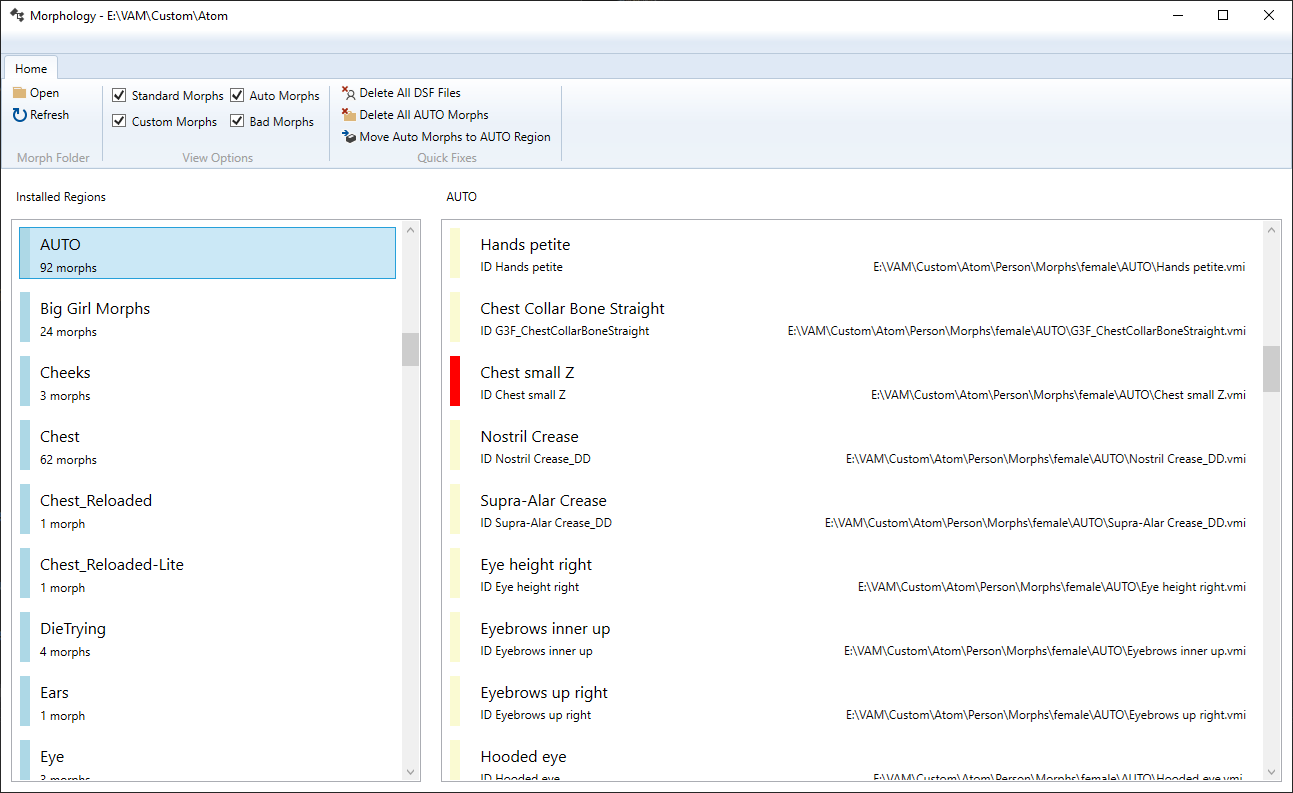
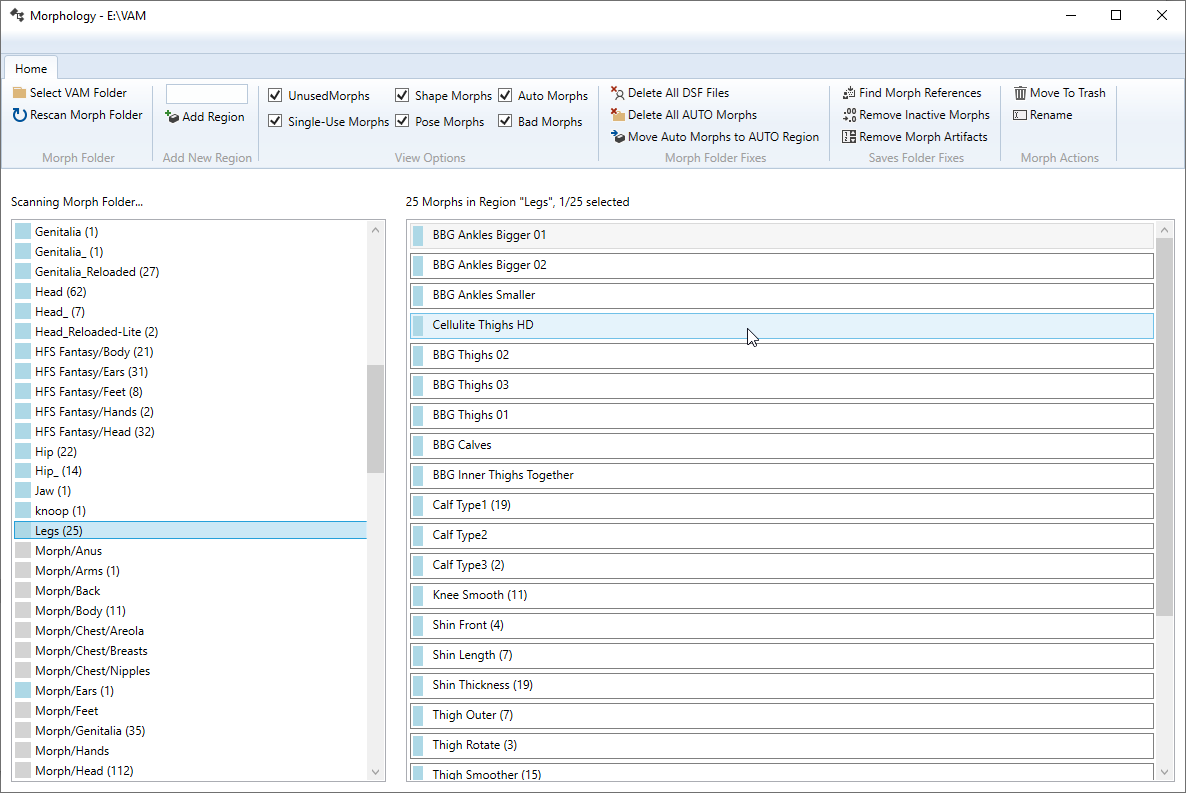
Updated Readme

diff --git a/README.md b/README.md
@@ -1,38 +1,73 @@
 # Morphology
-A morph organizing tool for Virt-a-Mate
+An organizing tool for custom morphs in Virt-a-Mate
 
 ![Morphology Screenshot](Screenshot.PNG)
 
 ## Installation
-- download the [lastest release](https://github.com/morph1sm/morphology/releases)
-- unzip into a folder somewhere
-- run `setup.exe` to install (will also create an Uninstall entry your Apps list)
+- download the [installer for the latest release](https://github.com/morph1sm/morphology/releases)
+- unzip installer, e.g. in your Downloads folder
+- run `setup.exe` to install the Morphology app (if you have an older version, please first uninstall it via Windows Settings -> Apps )
 
 ## Usage
-- open your morph folder, e.g. `/Vam/Custom/Atom/Person`
-- select a region to display all morphs currently in that region
-- drag one or more morphs to any region to move them
+- tell Morphology where your VAM lives via the `Select VAM Folder` button
+- select a region on the left and see all of its morphs on the right
+- drag one or more morphs to any region to organize them to your liking
 
 That's it.
 
-Some quick fixes for common morph issues in VaM:
+Morphology also has other helpful features:
+
+### Add Region
+If the current list of regions doesn't have a region you think makes sense, create it yourself!
+
+### Morph Filters
+Only display the Morphs you are interested in, by checking or unchecking the **View Options**
+
+#### Unused Morphs
+Show morphs that are not used in any of your scenes.
+
+#### Single-Use Morphs
+Show morphs that are only used in one scene.
+
+#### Shape Morphs
+Show morphs that affect the geometry of a look.
+
+#### Pose Morphs
+Show morphs that affect the rotation and location of the bones of a look.
+
+#### Auto Morphs
+Show morphs that were imported by loading a VAC file. These are usually stored in a special folder called **AUTO**.
+
+#### Bad Morphs
+Show morphs that are known to affect geometry outside of their region. These are usually undesirable to have, but you could also keep them and just ensure they are not used anywhere outside their original scene.
 
 ### Delete All DSF Files
-They are only needed one time for VaM to import them. After that, they only slow down scene loading in general. If needed, you can always copy the DSF files from your DAZ library again.
-
-### Move Auto Morphs to AUTO Region
-The main issue with organizing your morph library are the random morphs installed by opening VAC files in VaM. Every user has different ideas about region names and organisation schemes, so you end up with lots of different region names containing just 2 or 3 morphs.
-
-Fortunately, VaM copies morphs imported from scenes to a special subfolder called AUTO in your main morph folders. This quick fix, renames the region for any of these imported morphs to AUTO. All the funny region names go away and you can still find all these morphs in the AUTO region, should you want to move them into your regular library.
+Custom morphs are imported into VaM via the DSF file format origination from the DAZ Studio app. They are only needed one time for VaM to import them and only slow down scene loading after that. They are safe to delete. You could always copy them again from your DAZ library to VaM's custom morphs folder for re-importation.
 
 ### Delete All Auto Morphs
-If you are just exploring some random scenes, but are not interested in sorting out the various imported morphs, you can prune them from your library with this quick fix. If you want to restore a deleted auto morph, load the corresponding VAC file in VaM and they will be re-imported.
+If you are just exploring some random scenes, but are not interested in keeping and sorting out the various imported morphs, you can prune them from your library with this quick fix. If you want to restore a deleted auto morph, load the corresponding VAC file in VaM and they will be re-imported.
 
+### Move Auto Morphs to AUTO Region
+The main issue with organizing your morph library are the random morphs installed by opening various VAC files in VaM. Every user has different ideas about region names and organization schemes, so you end up with lots of different region names containing just 2 or 3 morphs.
+
+Fortunately, VaM copies morphs imported from scenes to a special subfolder called AUTO in your main morph folders. This quick fix, renames the region for all of these imported morphs to AUTO. All the funny region names go away and you can still find all these morphs in the AUTO region, should you want to move them into your regular library regions.
+
+### Find Morph References
+Scans your **Saves** folder for scenes and looks counts how many scenes or looks are using each custom morph. After the scan completes, you will see a count next to the morph name in the list on the right.
+
+### Remove Inactive Morphs
+*Not yet implemented*: Will prune morphs from all scenes and looks if their value is 0.0, i.e. if that morph is unused. This usually happens when a morph was tried out, but then zeroed out by the scene/look creator. This will make your scenes smaller and also stop counting it as a reference.
+
+### Remove Morph Artifacts
+*Not yet implemented*: Same as above, but for whatever reason the morph is stored with a tiny value, e.g. `0.000000001`. In essence it is an unused morph, but technically it is used because the value is not 0. This feature will remove these morph artifacts. You can select the pruning sensitivity by entering you own treshold value.
 
 ## Roadmap
-### v0.3
-- add and rename regions
-- quick fix for invalid `CheekBone  Width Outer` morph for legacy scenes and VACs
+### v0.3.5
+- rename regions
+- rename morphs
+- quick fix for invalid `CheekBone  Width Outer` morph for legacy scenes
+- implement `Remove Inactive Morphs`
+- implement `Remove Morph Artifacts`
 
 ### v0.4
 - install DSF and pre-sort by region so the new morphs are imported into your region of choice
